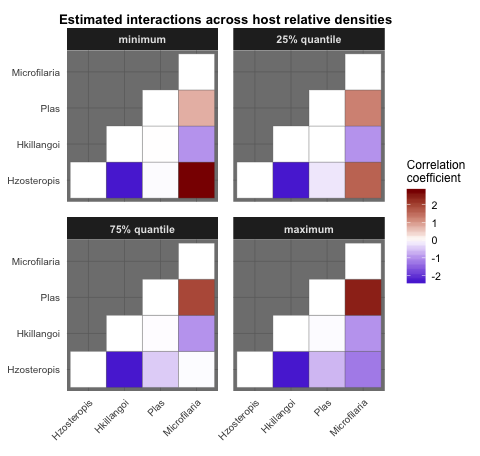
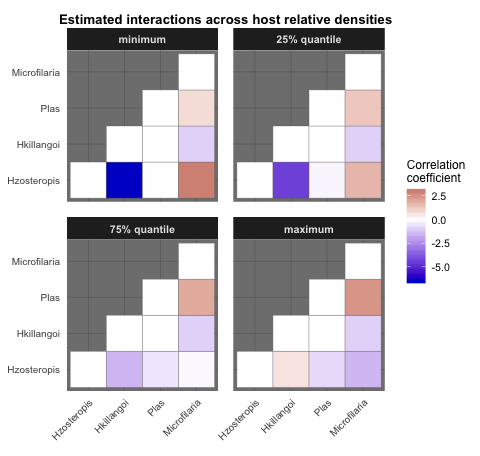
updated vignettes for spatial models

diff --git a/vignettes/Bird_Parasite_CRF.html b/vignettes/Bird_Parasite_CRF.html
@@ -117,24 +117,6 @@ rosalia_fit &lt;-<span class="st"> </span><span class="kw">rosalia</span>(Bird.p
                 <span class="dt">main =</span> <span class="st">'Estimated interactions across host relative densities'</span>)</code></pre></div>
 <p>Regression coefficients and their relative importances can be accessed as well. This call returns a matrix of the raw coefficient, as well as standardised coefficients (standardised by the <code>sd</code> of the covariate). Standardisation in this way helps to compare the relative influences of each parameter on the target species’ occurrence probability. The list also contains contains each variable’s relative importance (calculated using the formula <code>B^2 / sum(B^2)</code>, where the vector of <code>B</code>s represents regression coefficients for predictor variables). Variables with an underscore (<code>_</code>) indicate an interaction between a covariate and another node, suggesting that conditional dependencies of the two nodes vary across environmental gradients</p>
 <div class="sourceCode"><pre class="sourceCode r"><code class="sourceCode r">MRF_mod$key_coefs$Hzosteropis</code></pre></div>
-</div>
-<div id="assessing-model-fit-using-the-optimised-regression-approach" class="section level3">
-<h3>Assessing model fit using the optimised regression approach</h3>
-<p>As stated above, allowing <code>lambda1</code> to be optimised separately for each species through 10-fold cross validation will in most cases be the ideal approach, as this ensures that the log-likelihood of each species is adequately maximised. When using this approach, we can easily assess model fit using a range of functions to test predictive capacity. First, we can test this model’s predictive performance across random subsets of the data using <code>cv_MRF_diag_rep</code>. This function splits the data into 10 folds and predicts outputs in these folds using the fitted <code>MRFcov</code> model. Here, we repeat this process 10 times to get an idea of the spread of predictive metrics. We also test predictive capacity using a “null” model (i.e an MRF, with no covariates) to see if adding the covariate improves model predictive performance. Setting <code>plot = FALSE</code> returns the prediction metrics for each of the 10 <code>n_fold_runs</code>, allowing users to make their own plots how they see fit</p>
-<div class="sourceCode"><pre class="sourceCode r"><code class="sourceCode r">cv.preds &lt;-<span class="st"> </span><span class="kw">cv_MRF_diag_rep</span>(<span class="dt">data =</span> Bird.parasites, <span class="dt">n_nodes =</span> <span class="dv">4</span>,
-                            <span class="dt">n_cores =</span> <span class="dv">3</span>, <span class="dt">family =</span> <span class="st">'binomial'</span>,
-                            <span class="dt">compare_null =</span> <span class="ot">TRUE</span>,
-                            <span class="dt">plot =</span> <span class="ot">FALSE</span>, <span class="dt">n_fold_runs =</span> <span class="dv">10</span>)</code></pre></div>
-<p>Here we plot <strong>Sensitivity</strong> and <strong>% True Predictions</strong> for each of the models (the null and the CRF) using functions in <code>ggplot2</code></p>
-<div class="sourceCode"><pre class="sourceCode r"><code class="sourceCode r"><span class="kw">library</span>(ggplot2)
-gridExtra::<span class="kw">grid.arrange</span>(
-  <span class="kw">ggplot</span>(<span class="dt">data =</span> cv.preds, <span class="kw">aes</span>(<span class="dt">y =</span> mean_sensitivity, <span class="dt">x =</span> model)) +
-<span class="st">    </span><span class="kw">geom_boxplot</span>() +<span class="st"> </span><span class="kw">theme</span>(<span class="dt">axis.text.x =</span> ggplot2::<span class="kw">element_blank</span>()) +
-<span class="st">    </span><span class="kw">labs</span>(<span class="dt">x =</span> <span class="st">''</span>),
-  <span class="kw">ggplot</span>(<span class="dt">data =</span> cv.preds, <span class="kw">aes</span>(<span class="dt">y =</span> mean_tot_pred, <span class="dt">x =</span> model)) +
-<span class="st">    </span><span class="kw">geom_boxplot</span>(),
-  <span class="dt">ncol =</span> <span class="dv">1</span>,
-  <span class="dt">heights =</span> <span class="kw">c</span>(<span class="dv">1</span>, <span class="dv">1</span>))</code></pre></div>
 <p>Finally, a useful capability is to generate some fake data and test predictions. For instance, say we want to know how frequently malaria parasite infections are predicted to occur in sites with high occurrence of microfilaria</p>
 <div class="sourceCode"><pre class="sourceCode r"><code class="sourceCode r">fake.dat &lt;-<span class="st"> </span>Bird.parasites
 fake.dat$Microfilaria &lt;-<span class="st"> </span><span class="kw">rbinom</span>(<span class="kw">nrow</span>(Bird.parasites), <span class="dv">1</span>, <span class="fl">0.8</span>)
@@ -144,17 +126,16 @@ fake.preds &lt;-<span class="st"> </span><span class="kw">predict_MRF</span>(<sp
 Plas.pred.prev &lt;-<span class="st"> </span><span class="kw">sum</span>(fake.preds$Binary_predictions[, <span class="st">'Plas'</span>]) /<span class="st"> </span><span class="kw">nrow</span>(fake.preds$Binary_predictions)
 Plas.pred.prev</code></pre></div>
 </div>
-<div id="choosing-penalization-parameters-when-using-fixed-lambda1-values" class="section level3">
-<h3>Choosing penalization parameters when using fixed lambda1 values</h3>
-<p>If users decide to implement the same <code>lambda1</code> value for each species in the graph, choosing the appropriate <code>lambda1</code> value often requires exploration of model predictive performance at different values. The function <code>cv_MRF_diag</code> uses cross-validation to examine how well models fitted with training datasets can predict observations that have been with-held from the data (test datasets) at different <code>lambda1</code> values (see documentation in the <code>penalized</code> package for more details). Given the large number of models that may be required during cross-validation or bootstrapping (see below), we can use parallel computation by relying on functions in the <a href="https://www.google.com.au/url?sa=t&amp;rct=j&amp;q=&amp;esrc=s&amp;source=web&amp;cd=2&amp;cad=rja&amp;uact=8&amp;ved=0ahUKEwj6iZyPvcnYAhVLvrwKHaJ9AhUQFgg2MAE&amp;url=https%3A%2F%2Fstat.ethz.ch%2FR-manual%2FR-devel%2Flibrary%2Fparallel%2Fdoc%2Fparallel.pdf&amp;usg=AOvVaw2eR83aL93jttPIS-mLWzEL">parallel</a> package. Here we set <code>fixed_lambda = TRUE</code>, which allows us to test a sequence of <code>lambda1</code> values using <code>seq(min_lambda1, max_lambda1, by_lambda1)</code>.</p>
-<div class="sourceCode"><pre class="sourceCode r"><code class="sourceCode r"><span class="kw">cv_MRF_diag</span>(<span class="dt">data =</span> Bird.parasites, <span class="dt">fixed_lambda =</span> <span class="ot">TRUE</span>, <span class="dt">min_lambda1 =</span> <span class="fl">0.5</span>, <span class="dt">max_lambda1 =</span> <span class="dv">2</span>, <span class="dt">by_lambda1 =</span> <span class="fl">0.1</span>, <span class="dt">n_nodes =</span> <span class="dv">4</span>, <span class="dt">family =</span> <span class="st">'binomial'</span>, <span class="dt">n_cores =</span> <span class="dv">3</span>)</code></pre></div>
+<div id="comparing-fits-of-mrf-and-crf-models" class="section level3">
+<h3>Comparing fits of MRF and CRF models</h3>
+<p>A key step in the process of model exploration is to determine whether inclusion of covariates actually improves model fit and is warranted when estimating interaction parameters. This is straightforward for binomial models, as we can compare classification accuracy quickly and easily. The <code>cv_diag</code> functions will fit models and then determine their predictive performances against the supplied data. We can also compare MRF and CRF models directly to determine whether covariates are warranted. For this dataset, considering that parasite infections are quite rare, we are primarily interested in maximising model Sensitivity (capacity to successfully predict positive infections)</p>
+<div class="sourceCode"><pre class="sourceCode r"><code class="sourceCode r"><span class="kw">cv_MRF_diag_rep</span>(<span class="dt">data =</span> Bird.parasites, <span class="dt">n_nodes =</span> <span class="dv">4</span>,
+            <span class="dt">n_cores =</span> <span class="dv">3</span>, <span class="dt">family =</span> <span class="st">'binomial'</span>, <span class="dt">plot =</span> T, <span class="dt">compare_null =</span> T)</code></pre></div>
 </div>
 <div id="bootstrapping-the-data-and-running-models-across-a-range-of-penalization-values" class="section level3">
 <h3>Bootstrapping the data and running models across a range of penalization values</h3>
-<p>For this dataset, <code>lambda1</code> values between 0.5 and 1.5 maintain reasonable <strong>Sensitivity</strong> (which represents the proportion of true positives that are correctly predicted). Because we are using rather rare parasite occurrences (prevalence of these parasites is fairly low), it is in our interest to use models that can maintain <strong>Sensitivity</strong>, as long as we are not at risk of overfitting (in this case, our maximum number of predictors is not very high, given that we only have four species and one covariate). Now that we have identified a suitable range of <code>lambda1</code> values, we can fit models to bootstrapped subsets of the data within this range to account for uncertainty.</p>
-<div class="sourceCode"><pre class="sourceCode r"><code class="sourceCode r">booted_MRF &lt;-<span class="st"> </span><span class="kw">bootstrap_MRF</span>(<span class="dt">data =</span> Bird.parasites, <span class="dt">n_nodes =</span> <span class="dv">4</span>, <span class="dt">family =</span> <span class="st">'binomial'</span>, <span class="dt">n_bootstraps =</span> <span class="dv">50</span>, <span class="dt">fixed_lambda =</span> <span class="ot">TRUE</span>, <span class="dt">min_lambda1 =</span> <span class="fl">0.5</span>, <span class="dt">max_lambda1 =</span> <span class="fl">1.5</span>, <span class="dt">by_lambda1 =</span> <span class="fl">0.1</span>, <span class="dt">n_cores =</span> <span class="dv">3</span>)</code></pre></div>
-<p>Now we can visualise confidence intervals of interaction coefficients that were estimated across the full range of models. To do this, we again use <code>plotMRF_hm</code>, but this time we supply the <code>booted_MRF</code> object.</p>
-<div class="sourceCode"><pre class="sourceCode r"><code class="sourceCode r"><span class="kw">plotMRF_hm</span>(<span class="dt">MRF_mod =</span> booted_MRF)</code></pre></div>
+<p>We now may want to fit models to bootstrapped subsets of the data to account for parameter uncertainty</p>
+<div class="sourceCode"><pre class="sourceCode r"><code class="sourceCode r">booted_MRF &lt;-<span class="st"> </span><span class="kw">bootstrap_MRF</span>(<span class="dt">data =</span> Bird.parasites, <span class="dt">n_nodes =</span> <span class="dv">4</span>, <span class="dt">family =</span> <span class="st">'binomial'</span>, <span class="dt">n_bootstraps =</span> <span class="dv">25</span>, <span class="dt">n_cores =</span> <span class="dv">3</span>)</code></pre></div>
 </div>
 <div id="exploring-regression-coefficients-and-interpreting-results" class="section level3">
 <h3>Exploring regression coefficients and interpreting results</h3>
@@ -163,7 +144,22 @@ Plas.pred.prev</code></pre></div>
 <div class="sourceCode"><pre class="sourceCode r"><code class="sourceCode r">booted_MRF$mean_key_coefs$Hkillangoi</code></pre></div>
 <div class="sourceCode"><pre class="sourceCode r"><code class="sourceCode r">booted_MRF$mean_key_coefs$Plas</code></pre></div>
 <div class="sourceCode"><pre class="sourceCode r"><code class="sourceCode r">booted_MRF$mean_key_coefs$Microfilaria</code></pre></div>
-<p>Note of course that inferences may differ when using fixed vs node-optimised penalization, and so users should consider which option fits their questions best (as stated above, node-optimisation is generally preferred, as it requires less guesswork about choosing the optimal <code>lambda1</code> values)</p>
+</div>
+<div id="accounting-for-possible-spatial-autocorrelation" class="section level3">
+<h3>Accounting for possible spatial autocorrelation</h3>
+<p>Lastly, <code>MRFcov</code> has the capability to account for possible spatial autocorrelation when estimating interaction parameters. To do this, we incorporate functions from the <code>mgcv</code> package to include unpenalized Gaussian process spatial regression splines as fixed covariates in each node-wise regression. The user must supply a two-column <code>data.frame</code> called <code>coords</code>, which will ideally contain Latitude and Longitude values for each row in <code>data</code>. We don’t have these coordinates for the <code>Bird.parasites</code> dataset, so we will instead create some fake coordinates to showcase the model</p>
+<div class="sourceCode"><pre class="sourceCode r"><code class="sourceCode r">Latitude &lt;-<span class="st"> </span><span class="kw">sample</span>(<span class="kw">seq</span>(<span class="dv">120</span>, <span class="dv">140</span>, <span class="dt">length.out =</span> <span class="dv">100</span>), <span class="kw">nrow</span>(Bird.parasites), <span class="ot">TRUE</span>)
+Longitude &lt;-<span class="st"> </span><span class="kw">sample</span>(<span class="kw">seq</span>(-<span class="dv">19</span>, -<span class="dv">22</span>, <span class="dt">length.out =</span> <span class="dv">100</span>), <span class="kw">nrow</span>(Bird.parasites), <span class="ot">TRUE</span>)
+coords &lt;-<span class="st"> </span><span class="kw">data.frame</span>(<span class="dt">Latitude =</span> Latitude, <span class="dt">Longitude =</span> Longitude)</code></pre></div>
+<p>The syntax for the <code>MRFcov_spatial</code> function is nearly identical to <code>MRFcov</code>, with the exception that <code>coords</code> must be supplied</p>
+<div class="sourceCode"><pre class="sourceCode r"><code class="sourceCode r">CRFmod_spatial &lt;-<span class="st"> </span><span class="kw">MRFcov_spatial</span>(<span class="dt">data =</span> Bird.parasites, <span class="dt">n_nodes =</span> <span class="dv">4</span>,
+                                 <span class="dt">family =</span> <span class="st">'binomial'</span>, <span class="dt">coords =</span> coords)</code></pre></div>
+<p>Interpretation is also identical to <code>MRFcov</code> objects. Here, key coefficients are those that are retained <em>after</em> accounting for spatial influences</p>
+<div class="sourceCode"><pre class="sourceCode r"><code class="sourceCode r">CRFmod_spatial$key_coefs$Hzosteropis</code></pre></div>
+<p>Finally, we can compare fits of spatial and non-spatial models just as we did for MRFs and CRFs above</p>
+<div class="sourceCode"><pre class="sourceCode r"><code class="sourceCode r"><span class="kw">cv_MRF_diag_rep_spatial</span>(<span class="dt">data =</span> Bird.parasites, <span class="dt">n_nodes =</span> <span class="dv">4</span>,
+                        <span class="dt">n_cores =</span> <span class="dv">3</span>, <span class="dt">family =</span> <span class="st">'binomial'</span>, <span class="dt">plot =</span> T, <span class="dt">compare_null =</span> T,
+                        <span class="dt">coords =</span> coords)</code></pre></div>
 </div>
 
 

diff --git a/docs/README.md b/docs/README.md
@@ -20,7 +20,7 @@ In principle, `MRFcov` models that use species' occurrences or abundances as out
 
 3.  Estimate how interactions are predicted to change across environmental gradients
 
-MRF and CRF interaction parameters are approximated using separate regressions for individual species within a joint modelling framework. Because all combinations of covariates and additional species are included as predictor variables in node-specific regressions, variable selection is required to reduce overfitting and add sparsity. This is accomplished through LASSO penalization using functions in the [penalized](https://cran.r-project.org/web/packages/penalized/index.html) and [glmnet](https://cran.r-project.org/web/packages/glmnet/index.html) packages.
+MRF and CRF interaction parameters are approximated using separate regressions for individual species within a joint modelling framework. Because all combinations of covariates and additional species are included as predictor variables in node-specific regressions, variable selection is required to reduce overfitting and add sparsity. This is accomplished through LASSO penalization using functions in the [glmnet](https://cran.r-project.org/web/packages/glmnet/index.html) package.
 
 Installation
 ------------
@@ -61,8 +61,9 @@ Run an MRF model using the provided continuous covariate (`scale.prop.zos`). Her
 
 ``` r
 MRF_mod <- MRFcov(data = Bird.parasites, n_nodes = 4, family = 'binomial')
-#> Warning in MRFcov(data = Bird.parasites, n_nodes = 4, family = "binomial"): fixed_lambda not provided. Cross-validated optimisation will commence by default,
-#>             ignoring lambda1
+#> Leave-one-out cv used for the following low-occurrence (rare) nodes:
+#>  Microfilaria ...
+#> Fitting MRF models in sequence using 1 core ...
 ```
 
 Visualise the estimated species interaction coefficients as a heatmap. These represent mean interactions and are very useful for identifying co-occurrence patterns, but they do not indicate how interactions change across gradients. Note, for binary data such as this, we can also plot the observed occurrences and co-occurrences using `plot_observed_vals = TRUE`
@@ -89,39 +90,41 @@ Finally, we can explore regression coefficients to get a better understanding of
 ``` r
 MRF_mod$key_coefs$Hzosteropis
 #>                      Variable Rel_importance Standardised_coef   Raw_coef
-#> 1                  Hkillangoi     0.66531864        -2.3064326 -2.3064326
-#> 5 scale.prop.zos_Microfilaria     0.12266333        -0.9903377 -0.9903377
-#> 3                Microfilaria     0.10575006         0.9195307  0.9195307
-#> 4              scale.prop.zos     0.09101689        -0.8530744 -0.8530744
-#> 2                        Plas     0.01244536        -0.3154493 -0.3154493
+#> 1                  Hkillangoi     0.62504984        -3.2263721 -3.2263721
+#> 4   scale.prop.zos_Hkillangoi     0.18657618         1.7627277  1.7627277
+#> 5 scale.prop.zos_Microfilaria     0.07442143        -1.1132844 -1.1132844
+#> 3              scale.prop.zos     0.05546258        -0.9610748 -0.9610748
+#> 2                Microfilaria     0.04907460         0.9040355  0.9040355
 ```
 
 ``` r
 MRF_mod$key_coefs$Hkillangoi
-#>         Variable Rel_importance Standardised_coef   Raw_coef
-#> 1    Hzosteropis     0.76638826        -2.3064326 -2.3064326
-#> 2   Microfilaria     0.13876154        -0.9814109 -0.9814109
-#> 3 scale.prop.zos     0.09482683        -0.8113009 -0.8113009
+#>                     Variable Rel_importance Standardised_coef   Raw_coef
+#> 1                Hzosteropis     0.68999235        -3.2263721 -3.2263721
+#> 4 scale.prop.zos_Hzosteropis     0.20596139         1.7627277  1.7627277
+#> 2               Microfilaria     0.06171491        -0.9649112 -0.9649112
+#> 3             scale.prop.zos     0.04233025        -0.7991306 -0.7991306
 ```
 
 ``` r
 MRF_mod$key_coefs$Plas
 #>                      Variable Rel_importance Standardised_coef   Raw_coef
-#> 2                Microfilaria     0.64897980         1.5278142  1.5278142
-#> 3              scale.prop.zos     0.26991953        -0.9853082 -0.9853082
-#> 4 scale.prop.zos_Microfilaria     0.04715223         0.4118187  0.4118187
-#> 1                 Hzosteropis     0.02766618        -0.3154493 -0.3154493
+#> 2                Microfilaria     0.64497947         1.5148566  1.5148566
+#> 3              scale.prop.zos     0.26327804        -0.9678452 -0.9678452
+#> 5 scale.prop.zos_Microfilaria     0.04766668         0.4118187  0.4118187
+#> 1                 Hzosteropis     0.03267334        -0.3409536 -0.3409536
+#> 4  scale.prop.zos_Hzosteropis     0.01139782        -0.2013768 -0.2013768
 ```
 
 ``` r
 MRF_mod$key_coefs$Microfilaria
 #>                     Variable Rel_importance Standardised_coef   Raw_coef
-#> 3                       Plas     0.35668971         1.5278142  1.5278142
-#> 4             scale.prop.zos     0.19113755        -1.1184028 -1.1184028
-#> 5 scale.prop.zos_Hzosteropis     0.14987048        -0.9903377 -0.9903377
-#> 2                 Hkillangoi     0.14718085        -0.9814109 -0.9814109
-#> 1                Hzosteropis     0.12920579         0.9195307  0.9195307
-#> 6        scale.prop.zos_Plas     0.02591562         0.4118187  0.4118187
+#> 3                       Plas     0.34235551         1.5148566  1.5148566
+#> 4             scale.prop.zos     0.18660822        -1.1184028 -1.1184028
+#> 5 scale.prop.zos_Hzosteropis     0.18490410        -1.1132844 -1.1132844
+#> 2                 Hkillangoi     0.13890216        -0.9649112 -0.9649112
+#> 1                Hzosteropis     0.12192851         0.9040355  0.9040355
+#> 6        scale.prop.zos_Plas     0.02530151         0.4118187  0.4118187
 ```
 
 To work through more in-depth tutorials and examples, see the vignettes in the package and check out papers that have been published using the method
